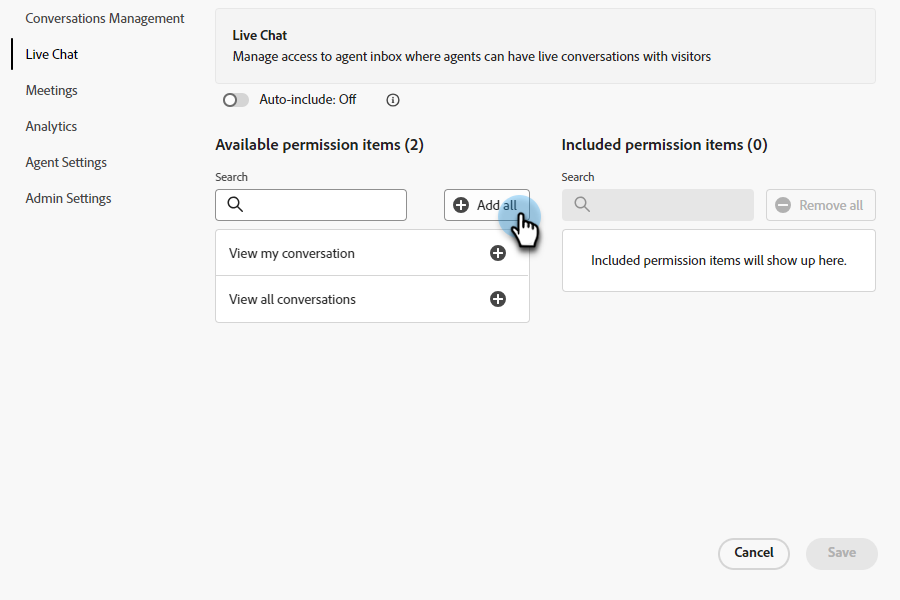
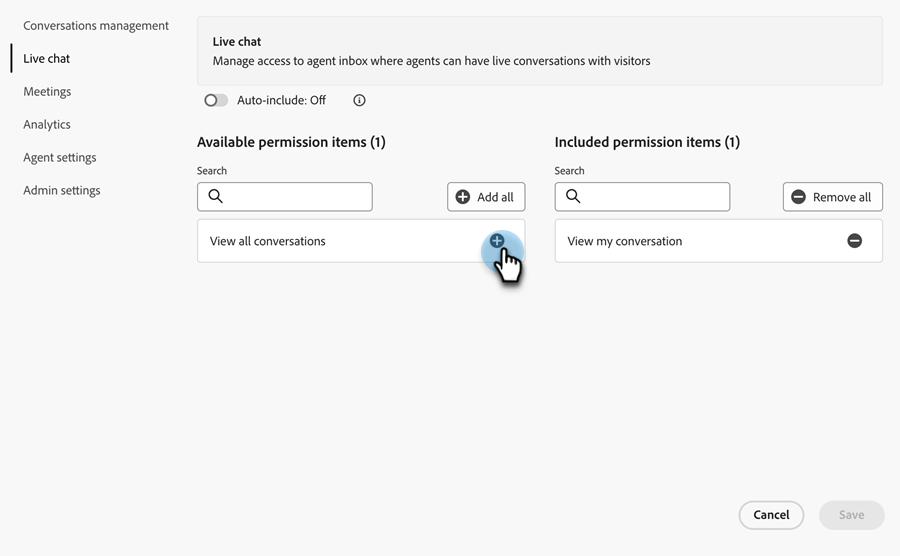
dc permissions

diff --git a/help/marketo/product-docs/demand-generation/dynamic-chat/setup-and-configuration/permissions.md b/help/marketo/product-docs/demand-generation/dynamic-chat/setup-and-configuration/permissions.md
@@ -1,15 +1,13 @@
 ---
 description: Permissions - Marketo Docs - Product Documentation
 title: Permissions
-hide: yes
-hidefromtoc: yes
 feature: Dynamic Chat
 ---
 # Permissions {#permissions}
 
-Manage user access to the various areas in Dynamic Chat.
+There are five default profiles with predefined permissions you can edit in Dynamic Chat. You can also create a custom profile with a custom set of permissions. Let's go over both.
 
-## Customize Permissions {#customize-permissions}
+## Edit Existing Permissions {#edit-existing-permissions}
 
 1. In the [Adobe Admin Console](https://adminconsole.adobe.com/){target="_blank"}, click **Dynamic Chat**.
 
@@ -23,11 +21,11 @@ Manage user access to the various areas in Dynamic Chat.
 
    ![](assets/permissions-3.png)
 
-1. Select the area of Dynamic Chat you want to edit. Because we chose the Live Agent profile, we're selecting Live Chat. Click the pencil icon.
+1. Select the area of the profile you want to edit. In this example, we're choosing Live Chat. Click the pencil icon.
 
    ![](assets/permissions-4.png)
 
-1. All available permission items are on the left. You can choose to add permissions one by one, or all at once. In this example, we're choosing all. Click the **+ Add all** button.
+1. Available permission items are listed on the left. You can choose to add permissions one by one, or all at once. In this example there's only one available, so we're adding that one. Click the **+** sign.
 
    ![](assets/permissions-5.png)
 
@@ -39,9 +37,30 @@ Manage user access to the various areas in Dynamic Chat.
 
    ![](assets/permissions-6.png)
 
-You can now repeat this process for all other Dynamic Chat areas.
+You can now repeat this process for any other Dynamic Chat areas.
 
    ![](assets/permissions-7.png)
+
+## Create a Profile {#create-a-profile}
+
+1. In the [Adobe Admin Console](https://adminconsole.adobe.com/){target="_blank"}, click **Dynamic Chat**.
+
+   ![](assets/permissions-8.png)
+
+1. In the **Product profiles** tab, click **New profile**.
+
+   ![](assets/permissions-9.png)
+
+1. **Name** your product profile. Optionally, you can give it a display name and/or description, and choose to have users notified when they're added/removed. Click **Save** when done.
+
+   ![](assets/permissions-10.png)
+
+1. Your new profile will appear in the Product profiles tab. Select it.
+
+   ![](assets/permissions-11.png)
+
+1. Now follow steps 3-6 from the [section above](#edit-existing-permissions) for each desired area.
+
 
 ## List of Permissions {#list-of-permissions}
 

diff --git a/help/marketo/product-docs/demand-generation/dynamic-chat/live-chat/live-chat-overview.md b/help/marketo/product-docs/demand-generation/dynamic-chat/live-chat/live-chat-overview.md
@@ -7,6 +7,12 @@ feature: Dynamic Chat
 
 Live chat allows website visitors to engage in real-time chat conversations with your sales agents.
 
+## Add Live Chat Agents {#add-live-chat-agents}
+
+To get started with live chat, you'll need to add your live chat agents as [users in the Adobe Admin Console](/help/marketo/product-docs/demand-generation/dynamic-chat/setup-and-configuration/add-or-remove-chat-users.md#add-a-chat-user){target="_blank"} and give them the [Live Chat permission](/help/marketo/product-docs/demand-generation/dynamic-chat/setup-and-configuration/permissions.md){target="_blank"}. After this is done, you can then add a [live chat card](#using-the-live-chat-card) to a new or existing Dialogue. 
+
+When visitors request to chat with an agent through your Dialogue, agents will have multiple [notification options](/help/marketo/product-docs/demand-generation/dynamic-chat/live-chat/agent-inbox.md#live-chat-notifications){target="_blank"}. When they click on the notification, they'll be taken to their [Agent Inbox](/help/marketo/product-docs/demand-generation/dynamic-chat/live-chat/agent-inbox.md){target="_blank"} where they can begin chatting with the visitor.
+
 ## Using the Live Chat Card {#using-the-live-chat-card}
 
 Use the live chat card in the [Stream Designer](/help/marketo/product-docs/demand-generation/dynamic-chat/automated-chat/stream-designer.md){target="_blank"} when you want visitors to chat with a live agent.

diff --git a/help/marketo/product-docs/marketo-sales-connect/email/unsubscribes/auto-append-unsubscribe-message-setting.md b/help/marketo/product-docs/marketo-sales-connect/email/unsubscribes/auto-append-unsubscribe-message-setting.md
@@ -31,4 +31,4 @@ Ensure every email sent includes an unsubscribe message so recipients have an ea
 
 >[!TIP]
 >
->If you disable the append unsubscribe message setting, we recommend adding an unsubscribe footer to your templates to ensure your communication has an opt-out option. You can do this by adding your own custom message to each template, or by using the `{{team_unsubscribe}}` dynamic field.
+>If you disable the append unsubscribe message setting, we recommend adding an unsubscribe footer to your templates to ensure your communication has an opt-out option. You can do this by adding your own custom message to each template, or by using the `{{team_unsubscribe}}` [dynamic field](/help/marketo/product-docs/marketo-sales-connect/templates/dynamic-fields/dynamic-fields-glossary.md){target="_blank"}.

diff --git a/help/marketo/product-docs/marketo-sales-insight/actions/email/unsubscribes/auto-append-unsubscribe-message-setting.md b/help/marketo/product-docs/marketo-sales-insight/actions/email/unsubscribes/auto-append-unsubscribe-message-setting.md
@@ -29,4 +29,4 @@ Ensure every Sales Insight Actions email sent includes an unsubscribe message so
 
 >[!TIP]
 >
->If you disable the append unsubscribe message setting, we recommend adding an unsubscribe footer to your templates to ensure your communication has an opt-out option. You can do this by adding your own custom message to each template, or by using the `{{team_unsubscribe}}` dynamic field.
+>If you disable the append unsubscribe message setting, we recommend adding an unsubscribe footer to your templates to ensure your communication has an opt-out option. You can do this by adding your own custom message to each template, or by using the `{{team_unsubscribe}}` [dynamic field](/help/marketo/product-docs/marketo-sales-insight/actions/templates/dynamic-fields.md){target="_blank"}.
